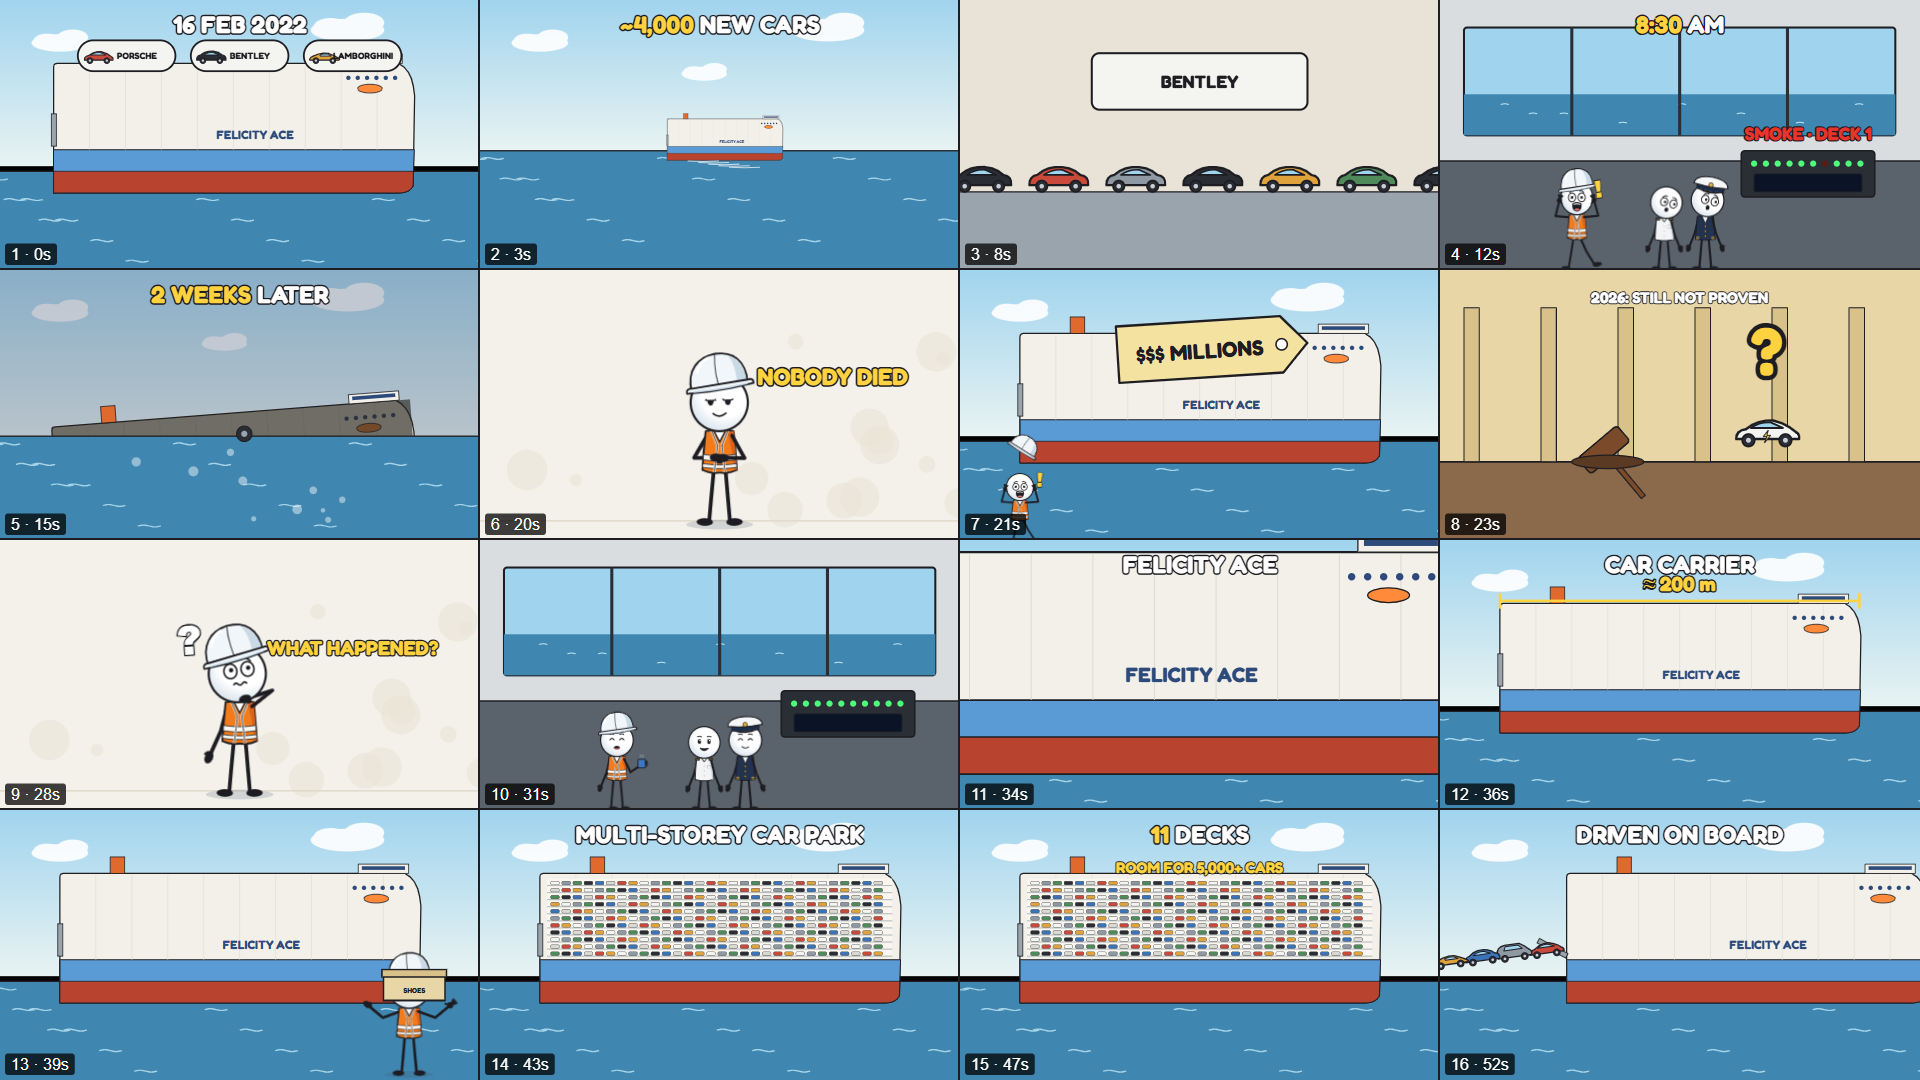
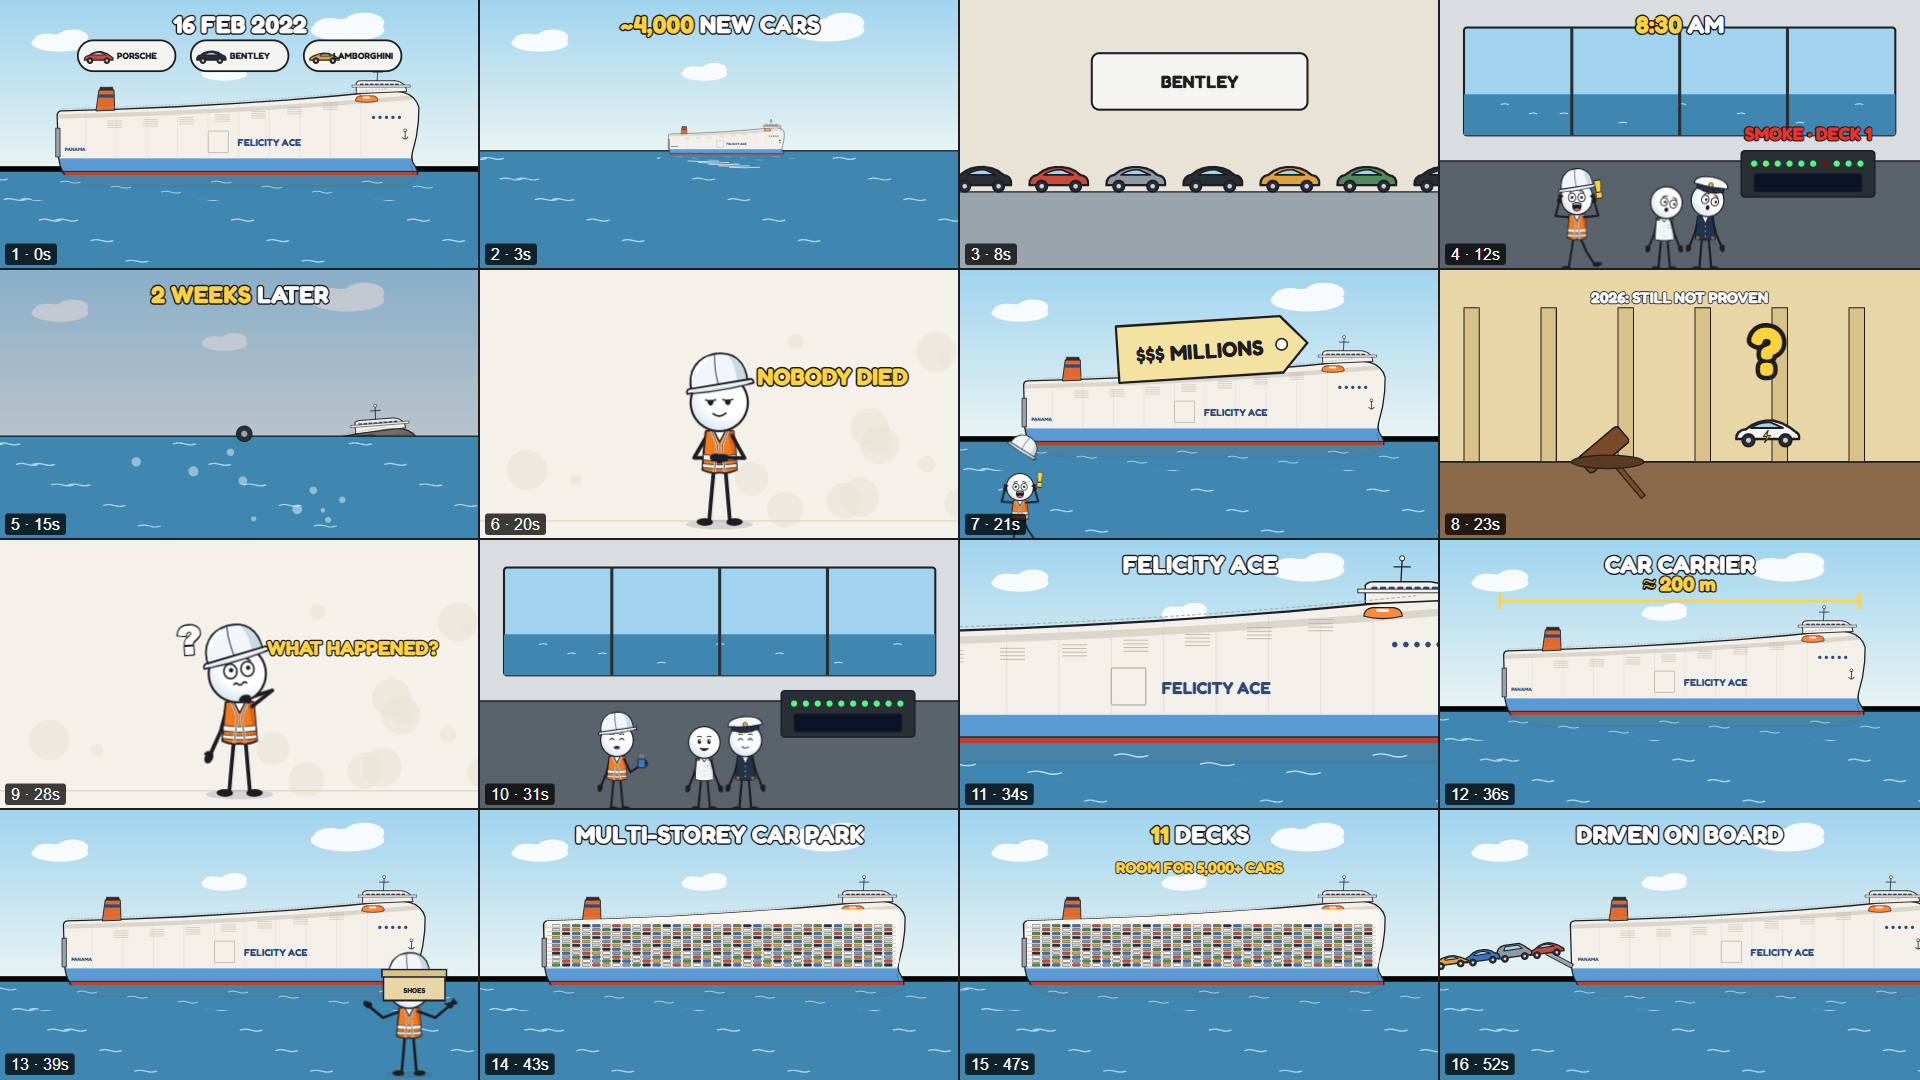
Felicity Ace: redraw the car carrier as a real ship shape

diff --git a/engine/shipguy/templates7.tsx b/engine/shipguy/templates7.tsx
@@ -49,43 +49,72 @@ export const CarTop: React.FC<{ c?: string; ev?: boolean; glow?: number }> = ({ 
 );
 
 // ================================================================== the car carrier (side view, stern left, bow right, waterline y = 0, length L)
-export const Pctc: React.FC<{ L?: number; fire?: number; scorch?: number; xray?: number; t?: number; ramp?: number; name?: boolean }> = ({ L = 1400, fire = 0, scorch = 0, xray = 0, t = 0, ramp: rmp = 0, name = true }) => {
+// Owner 2026-11-24: "make the ship like a ship, it looks more like a box". Lower, longer profile; deck sheer rising to the bow;
+// rounded, raked bow with a bulb; curved stern; bridge with windows + mast up front; funnel aft; anchor, lifeboat, side door, vents.
+const HULL_D = "M22 -168 Q 520 -180 930 -224 Q 1004 -226 1016 -178 Q 1018 -120 998 -52 Q 992 -32 1006 -14 Q 1022 10 1000 26 Q 978 40 940 42 L 130 42 Q 70 42 44 24 Q 20 6 14 -36 L 10 -158 Q 12 -168 22 -168 Z";
+export const Pctc: React.FC<{ L?: number; fire?: number; scorch?: number; xray?: number; t?: number; ramp?: number; name?: boolean; water?: boolean }> = ({ L = 1400, fire = 0, scorch = 0, xray = 0, t = 0, ramp: rmp = 0, name = true, water = true }) => {
   const k = L / 1000;
-  const top = -300, wl = 0, keel = 60;
+  const top = -200, wl = 0, sw = (w: number) => w / k;
+  const cid = `pcc${Math.round(L)}`;
   return (
     <g transform={`scale(${k})`}>
-      {/* hull: white box above, blue band, red bottom */}
-      <path d={`M0 ${keel} L 0 ${top + 10} Q 0 ${top} 10 ${top} L 960 ${top} Q 1000 ${top + 20} 1004 ${top + 90} L 1000 ${keel - 20} Q 990 ${keel} 960 ${keel} Z`} fill={HULL_W} {...O(5 / k)} />
-      <path d={`M0 ${wl - 60} L 1003 ${wl - 60} L 1000 ${keel - 20} Q 990 ${keel} 960 ${keel} L 0 ${keel} Z`} fill={HULL_B} {...O(4 / k)} />
-      <path d={`M0 ${wl} L 1001 ${wl} L 1000 ${keel - 20} Q 990 ${keel} 960 ${keel} L 0 ${keel} Z`} fill={HULL_R} {...O(3 / k)} />
-      {/* panel seams, portholes */}
-      {Array.from({ length: 9 }).map((_, i) => <line key={i} x1={100 + i * 100} y1={top + 4} x2={100 + i * 100} y2={wl - 60} stroke="#d9d6cc" strokeWidth={2 / k} />)}
-      {Array.from({ length: 6 }).map((_, i) => <circle key={`p${i}`} cx={820 + i * 26} cy={top + 40} r={6} fill="#2c4a7a" />)}
-      {/* bridge + funnel + lifeboat */}
-      <rect x={830} y={top - 26} width={140} height={26} fill={HULL_W} {...O(3 / k)} />
-      <rect x={840} y={top - 20} width={120} height={10} fill="#2c4a7a" />
-      <rect x={140} y={top - 46} width={40} height={46} fill="#e06a2e" {...O(3 / k)} />
-      <ellipse cx={880} cy={top + 70} rx={34} ry={12} fill="#ff8a3a" {...O(3 / k)} />
-      {/* stern ramp (folded up when closed) */}
-      <g transform={`translate(0 ${wl - 70}) rotate(${-rmp * 62})`}><rect x={-6} y={-90} width={14} height={90} fill="#9aa4ad" {...O(3 / k)} /></g>
-      {name && <Txt x={560} y={wl - 90} s={34} c="#2c4a7a">FELICITY ACE</Txt>}
-      {/* x-ray: the decks inside */}
+      <defs><clipPath id={cid}><path d={HULL_D} /></clipPath></defs>
+      {/* hull colours: white topsides, blue band, red antifouling below the waterline */}
+      <g clipPath={`url(#${cid})`}>
+        <rect x={0} y={-260} width={1040} height={230} fill={HULL_W} />
+        <rect x={0} y={-36} width={1040} height={36} fill={HULL_B} />
+        <rect x={0} y={0} width={1040} height={60} fill={HULL_R} />
+        {/* panel seams + a darker shade under the deck edge */}
+        {Array.from({ length: 10 }).map((_, i) => <line key={i} x1={90 + i * 85} y1={-196} x2={90 + i * 85} y2={-36} stroke="#dedbd0" strokeWidth={sw(2)} />)}
+        <path d="M10 -158 Q 520 -170 1010 -212 L 1012 -200 Q 520 -158 10 -146 Z" fill="#d9d6cc" />
+        {/* louvred vents along the top */}
+        {Array.from({ length: 7 }).map((_, i) => { const y0 = -140 - i * i * 0.9 - i * 3; return <g key={`v${i}`}>{[0, 1, 2, 3].map((j) => <line key={j} x1={150 + i * 100} y1={y0 + j * 6} x2={190 + i * 100} y2={y0 + j * 6} stroke="#b8b4a8" strokeWidth={sw(2)} />)}</g>; })}
+        {/* side door + stern quarter ramp outline */}
+        <rect x={430} y={-112} width={56} height={60} rx={3} fill="none" stroke="#b8b4a8" strokeWidth={sw(3)} />
+        {xray === 0 && Array.from({ length: 5 }).map((_, i) => <circle key={`p${i}`} cx={890 + i * 18} cy={-150} r={4.5} fill="#2c4a7a" />)}
+        <line x1={0} y1={0} x2={1040} y2={0} stroke={INK} strokeWidth={sw(3)} />
+      </g>
+      <path d={HULL_D} fill="none" {...O(sw(5))} />
+      {/* bulbous bow seam + anchor */}
+      <path d="M992 -20 Q 1004 4 996 22" fill="none" stroke={INK} strokeWidth={sw(2)} opacity={0.5} />
+      <g transform="translate(978 -112)"><path d="M0 0 V 22 M-8 16 Q 0 28 8 16" stroke={INK} strokeWidth={sw(3)} fill="none" /><circle cy={-2} r={4} fill="none" stroke={INK} strokeWidth={sw(2)} /></g>
+      {/* bridge house up front: rounded front, a strip of windows, bridge wings, a mast */}
+      <path d="M842 -216 L 842 -246 Q 846 -252 856 -252 L 948 -252 Q 972 -250 980 -232 L 982 -222 Z" fill={HULL_W} {...O(sw(3.5))} />
+      {Array.from({ length: 8 }).map((_, i) => <rect key={`w${i}`} x={852 + i * 14} y={-244} width={10} height={9} rx={2} fill="#2c4a7a" />)}
+      <rect x={830} y={-240} width={162} height={6} fill={HULL_W} {...O(sw(2))} />
+      <path d="M900 -252 L 902 -288 M888 -276 L 916 -276" stroke={INK} strokeWidth={sw(3)} fill="none" />
+      <circle cx={902} cy={-290} r={4} fill="#f4f4f0" stroke={INK} strokeWidth={sw(2)} />
+      {/* funnel aft, with a company stripe */}
+      <path d="M118 -168 L 126 -226 L 168 -226 L 170 -170 Z" fill="#e06a2e" {...O(sw(3.5))} />
+      <rect x={124} y={-214} width={45} height={9} fill="#2c4a7a" />
+      <path d="M128 -226 L 130 -234 L 164 -234 L 166 -226" fill="#2a2d33" stroke={INK} strokeWidth={sw(2)} />
+      {/* deck rails + aft mooring deck */}
+      <path d="M22 -168 Q 520 -180 930 -224" fill="none" stroke="#9aa4ad" strokeWidth={sw(2)} strokeDasharray="5 4" transform="translate(0 -6)" />
+      {/* enclosed lifeboat */}
+      <g transform="translate(870 -196)"><path d="M-30 0 Q -30 -12 -16 -14 L 18 -14 Q 32 -12 32 0 Q 0 8 -30 0 Z" fill="#ff8a3a" {...O(sw(2.5))} /><rect x={-10} y={-12} width={20} height={5} rx={2} fill="#f4f4f0" /></g>
+      {/* stern ramp (folded up when closed, lowers to load cars) */}
+      <g transform={`translate(12 -44) rotate(${-rmp * 62})`}><rect x={-6} y={-76} width={12} height={80} fill="#9aa4ad" {...O(sw(3))} /></g>
+      {name && <Txt x={600} y={-70} s={28} c="#2c4a7a">FELICITY ACE</Txt>}
+      {name && <Txt x={60} y={-56} s={14} c="#2c4a7a">PANAMA</Txt>}
+      {/* x-ray: the 11 car decks inside */}
       {xray > 0 && (
-        <g opacity={xray}>
-          <rect x={20} y={top + 14} width={960} height={(wl - 70) - (top + 14)} fill="#f8f6ee" />
+        <g opacity={xray} clipPath={`url(#${cid})`}>
+          <rect x={20} y={-200} width={980} height={160} fill="#f8f6ee" />
           {Array.from({ length: 11 }).map((_, i) => {
-            const y = top + 14 + (i + 1) * (((wl - 70) - (top + 14)) / 11);
+            const y = -160 + (i + 1) * (120 / 11);
             return (
               <g key={i}>
-                <line x1={20} y1={y} x2={980} y2={y} stroke="#9aa4ad" strokeWidth={3 / k} />
-                {Array.from({ length: 30 }).map((__, j) => <rect key={j} x={30 + j * 31} y={y - 12} width={24} height={10} rx={4} fill={CAR_COLORS[(i * 7 + j * 3) % CAR_COLORS.length]} stroke={INK} strokeWidth={1 / k} opacity={ramp(t, i * 2, i * 2 + 6)} />)}
+                <line x1={20} y1={y} x2={990} y2={y} stroke="#9aa4ad" strokeWidth={sw(2)} />
+                {Array.from({ length: 34 }).map((__, j) => <rect key={j} x={34 + j * 28} y={y - 9} width={22} height={7} rx={3} fill={CAR_COLORS[(i * 7 + j * 3) % CAR_COLORS.length]} stroke={INK} strokeWidth={sw(1)} opacity={ramp(t, i * 2, i * 2 + 6)} />)}
               </g>
             );
           })}
         </g>
       )}
+      {/* the sea in front of the hull below the waterline (a loaded ship shows only a sliver of red) */}
+      {water && <g><rect x={-60} y={10} width={1140} height={70} fill="#3f86b0" opacity={0.93} />{Array.from({ length: 8 }).map((_, i) => <path key={i} d={`M${(i * 140 + t * 1.2) % 1100 - 40} ${30 + (i % 3) * 14} q 14 -5 28 0 t 28 0`} stroke="#bfe6f5" strokeWidth={sw(3)} fill="none" />)}</g>}
       {/* fire / scorch */}
-      {scorch > 0 && <path d={`M0 ${top} L 1000 ${top} L 1000 ${wl - 60} L 0 ${wl - 60} Z`} fill="#2a2620" opacity={0.65 * scorch} />}
+      {scorch > 0 && <g clipPath={`url(#${cid})`}><rect x={0} y={-260} width={1040} height={224} fill="#2a2620" opacity={0.65 * scorch} /></g>}
       {fire > 0 && (
         <g>
           {Array.from({ length: 16 }).map((_, i) => {
@@ -127,7 +156,7 @@ const Pc: Tpl = ({ t, d, p, w }) => {
         <Svg>
           <DaySky hz={hz} />
           <rect width={W} height={hz} fill="#5d6b80" opacity={0.35} />
-          <g transform={`translate(260 ${hz + k * 520}) rotate(${-6 * k})`}><Pctc L={1400} scorch={1} t={t} /></g>
+          <g transform={`translate(260 ${hz + k * 520}) rotate(${-6 * k})`}><Pctc L={1400} scorch={1} t={t} water={false} /></g>
           <OpenSea t={t} y={hz} />
           {Array.from({ length: 10 }).map((_, i) => <circle key={i} cx={500 + rnd(i) * 900} cy={hz + 40 + ((t * 3 + i * 37) % 300)} r={8 + rnd(i + 3) * 12} fill="#fff" opacity={0.6 * k} />)}
           {k > 0.7 && <g transform={`translate(${960 + Math.sin(t * 0.1) * 20} ${hz - 6 + Math.sin(t * 0.2) * 4})`}><circle r={30} fill="#2a2d33" {...O(4)} /><circle r={12} fill="#9aa4ad" /></g>}

diff --git a/PROGRESS.md b/PROGRESS.md
@@ -641,3 +641,6 @@ File: `videos/2026-11-08-titanic-lifeboats-v2/out/preview-v2b-720p.mp4`.
   PART 1 (hook, the ship, the voyage; 0:00-2:04): 30 beats in `beats.txt`, new `engine/shipguy/templates7.tsx` (car carrier `Pctc`,
   generic `Car`/`CarTop` with no logos; pc, lash, route7, parade, price7, ev7, rounds, bridge7, court7). Storyboard `storyboard/p1-*.png`.
   GATE: owner OK on Part 1 stills.
+- 2026-11-24 owner: "make the ship like a ship, it looks more like a box" -> `Pctc` redrawn: lower/longer profile, deck sheer from a low
+  stern to a high rounded bow that leans forward, bulbous bow, curved stern, bridge house + mast, funnel aft, anchor, lifeboat, side door,
+  vents; the sea now covers the hull below the waterline. Part 1 stills re-rendered (`storyboard/p1-*.png`, `ship-v2.png`).
